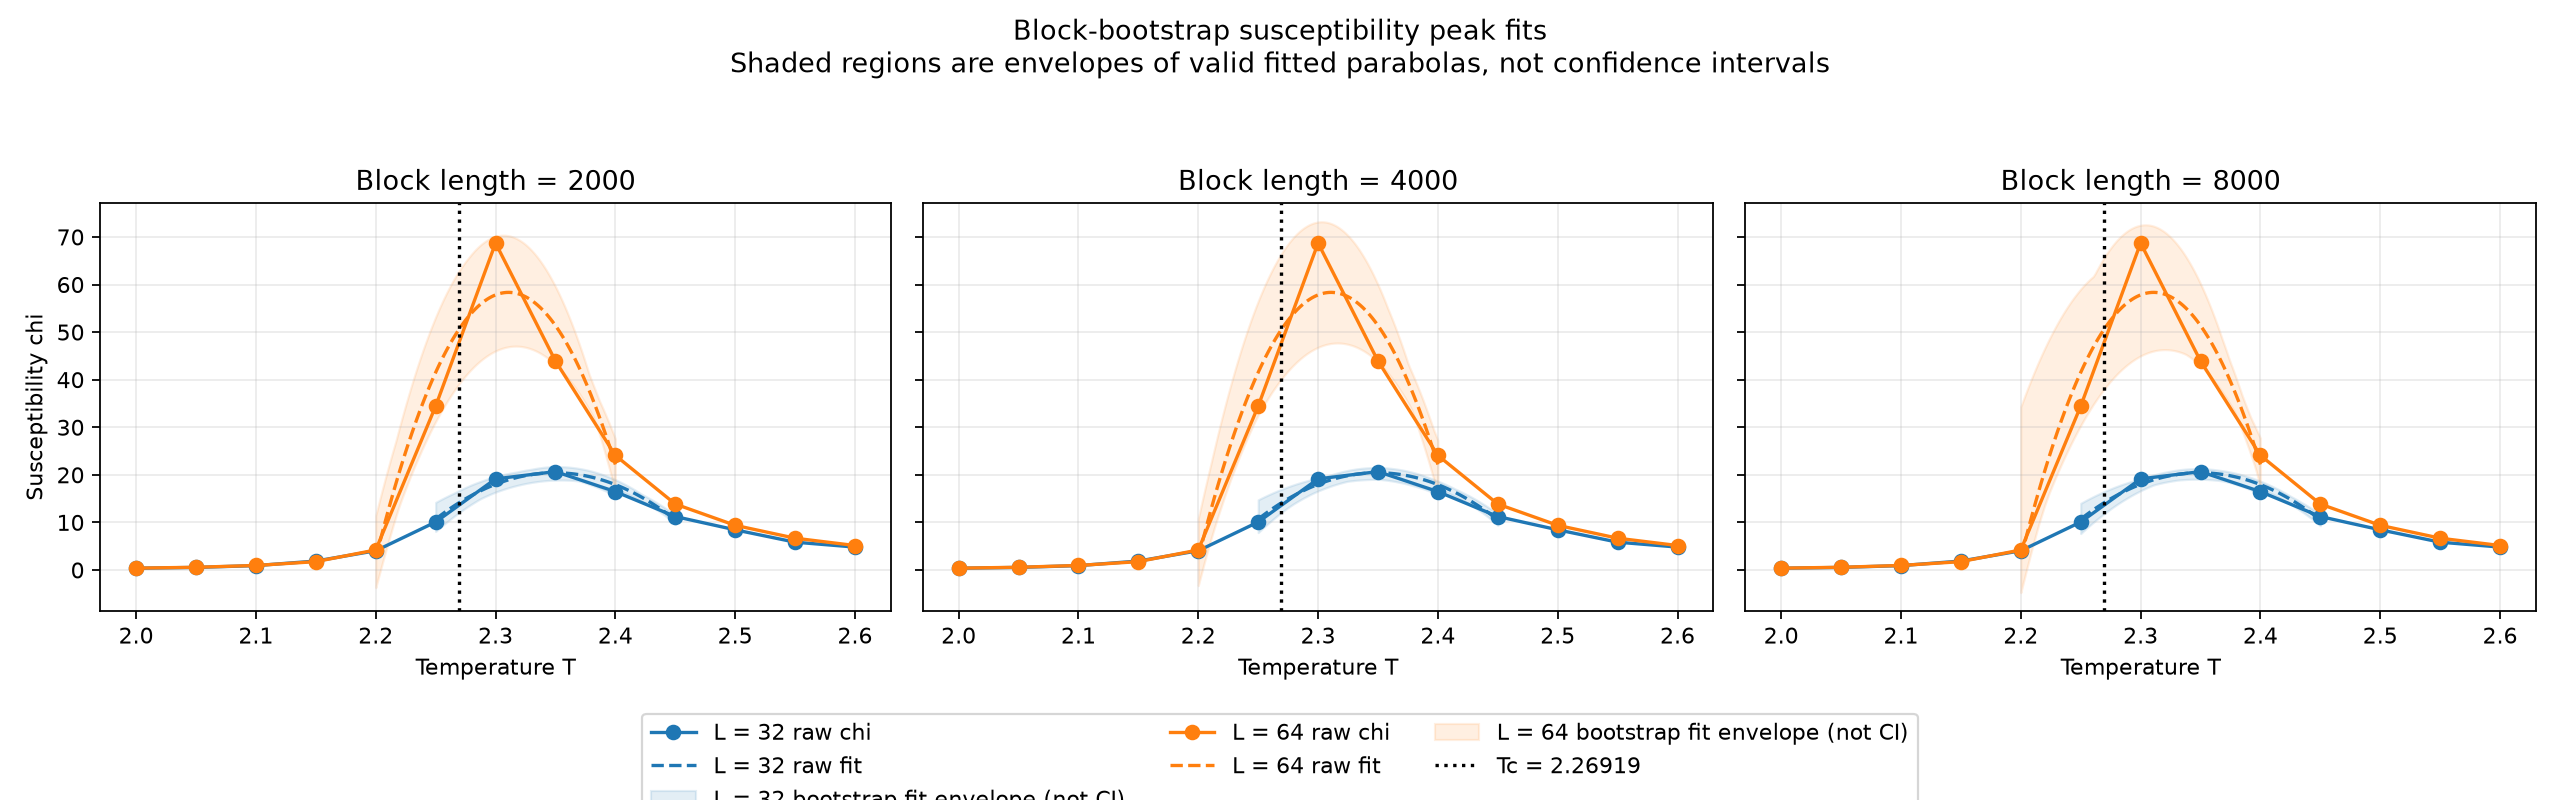
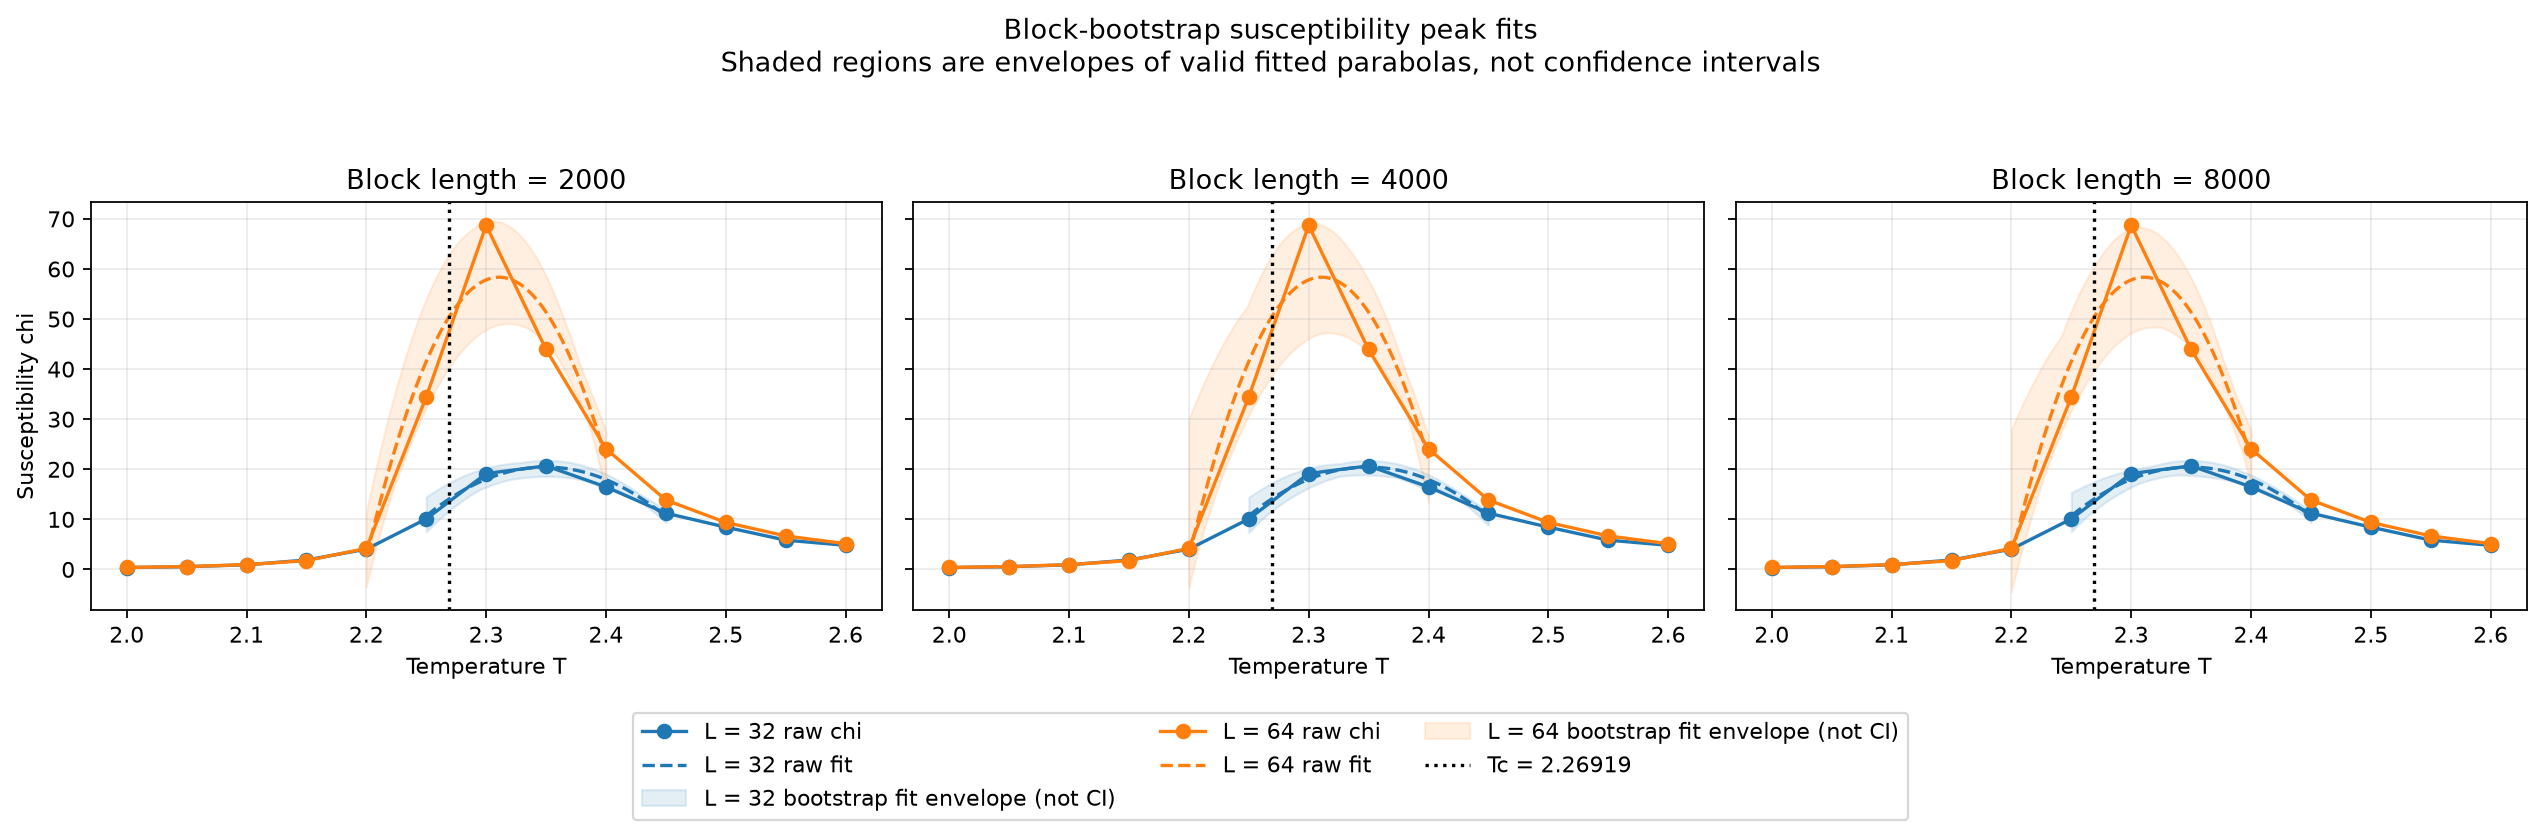
fix: use circular moving block bootstrap

diff --git a/week3/scripts/bootstrap.py b/week3/scripts/bootstrap.py
@@ -72,23 +72,14 @@ def peak_fit(temperatures: np.ndarray, chi: np.ndarray) -> tuple[float | None, s
     return peak, None, (fit_temperatures[0], fit_temperatures[-1]), coefficients
 
 
-def block_columns(columns: np.ndarray, block_length: int) -> tuple[np.ndarray, np.ndarray, int]:
-    block_count = len(columns) // block_length
-    remainder = len(columns) % block_length
-    full_blocks = columns[: block_count * block_length].reshape(block_count, block_length, 2).mean(axis=1)
-    tail = columns[block_count * block_length :]
-    return full_blocks, tail, remainder
-
-
-def resample_block_columns(
-    full_blocks: np.ndarray, tail: np.ndarray, sample_count: int, rng: np.random.Generator
-) -> np.ndarray:
-    selected = rng.integers(0, len(full_blocks), size=len(full_blocks))
-    full_total = full_blocks[selected].sum(axis=0) * sample_count
-    if len(tail) == 0:
-        return full_total / (len(full_blocks) * sample_count)
-    tail_sample = tail[rng.integers(0, len(tail), size=len(tail))]
-    return (full_total + tail_sample.sum(axis=0)) / (len(full_blocks) * sample_count + len(tail))
+def circular_moving_block(columns: np.ndarray, block_length: int, rng: np.random.Generator) -> np.ndarray:
+    """Resample ceil(N/B) circular consecutive blocks, then truncate to N rows."""
+    sample_count = len(columns)
+    block_count = (sample_count + block_length - 1) // block_length
+    starts = rng.integers(0, sample_count, size=block_count)
+    offsets = np.arange(block_length)
+    indices = (starts[:, None] + offsets[None, :]) % sample_count
+    return columns[indices.reshape(-1)[:sample_count]]
 
 
 def bootstrap(
@@ -105,18 +96,8 @@ def bootstrap(
             "peak_values": {32: [], 64: []},
             "tc_values": [],
             "tc_failures": Counter(),
-            "discarded": {},
         }
         envelopes[block_length] = {32: [], 64: []}
-        block_means = {}
-        for lattice_size in (32, 64):
-            _, series = data[lattice_size]
-            block_means[lattice_size] = {}
-            reports[block_length]["discarded"][lattice_size] = set()
-            for key in TEMPERATURE_KEYS:
-                full_blocks, tail, remainder = block_columns(series[key], block_length)
-                block_means[lattice_size][key] = (full_blocks, tail)
-                reports[block_length]["discarded"][lattice_size].add(remainder)
 
         valid_counts = {32: 0, 64: 0}
         failure_counts = {32: Counter(), 64: Counter()}
@@ -125,9 +106,9 @@ def bootstrap(
             for lattice_size in (32, 64):
                 chi = []
                 for key in TEMPERATURE_KEYS:
-                    full_blocks, tail = block_means[lattice_size][key]
-                    resampled = resample_block_columns(full_blocks, tail, block_length, rng)
-                    chi.append(chi_from_columns(resampled[None, :], lattice_size, key / 1000))
+                    source = data[lattice_size][1][key]
+                    resampled = circular_moving_block(source, block_length, rng)
+                    chi.append(chi_from_columns(resampled, lattice_size, key / 1000))
                 peak, reason, interval, coefficients = peak_fit(temperatures, np.array(chi))
                 if reason:
                     failure_counts[lattice_size][reason] += 1
@@ -153,9 +134,9 @@ def write_report(
     original_peaks = {}
     lines = [
         "Week 3 Part 3 block bootstrap report",
-        f"method=non-overlapping consecutive blocks, sampled with replacement; block contents remain ordered",
+        f"method=circular moving-block bootstrap; each block is a consecutive ordered segment sampled from a uniform start",
         f"seed={SEED}, replicates={REPLICATES}, critical_window=2.0..2.6, temperatures=13",
-        "tail_rule=full consecutive blocks are sampled with replacement; a non-divisible terminal remainder is sampled within itself and appended, preserving n=100000",
+        "tail_rule=circular moving-block bootstrap; sample ceil(N/B) blocks from uniform starts, wrap at the end, concatenate, then truncate to exactly N=100000",
         "",
     ]
     for lattice_size in (32, 64):
@@ -184,7 +165,7 @@ def write_report(
                 f"Tc_bootstrap_mean={tc_values.mean():.8f}, Tc_bootstrap_se_ddof1={tc_se:.8f}",
                 f"L32_peak_se_ddof1={np.std(report['peak_values'][32], ddof=1):.8f}",
                 f"L64_peak_se_ddof1={np.std(report['peak_values'][64], ddof=1):.8f}",
-                f"remainder_length_L32={sorted(report['discarded'][32])}, remainder_length_L64={sorted(report['discarded'][64])}",
+                f"circular_block_count={int(np.ceil(100000 / block_length))}, generated_rows={int(np.ceil(100000 / block_length)) * block_length}, truncated_rows={int(np.ceil(100000 / block_length)) * block_length - 100000}",
                 "",
             ]
         )
@@ -236,7 +217,7 @@ def plot(
     figure.legend(handles, labels, loc="lower center", ncol=3, bbox_to_anchor=(0.5, -0.04))
     figure.suptitle("Block-bootstrap susceptibility peak fits\nShaded regions are envelopes of valid fitted parabolas, not confidence intervals")
     figure.tight_layout(rect=(0, 0.12, 1, 0.93))
-    figure.savefig(EVIDENCE / "chi-bootstrap.png", dpi=160)
+    figure.savefig(EVIDENCE / "chi-bootstrap.png", dpi=160, bbox_inches="tight")
     plt.close(figure)
 
 
